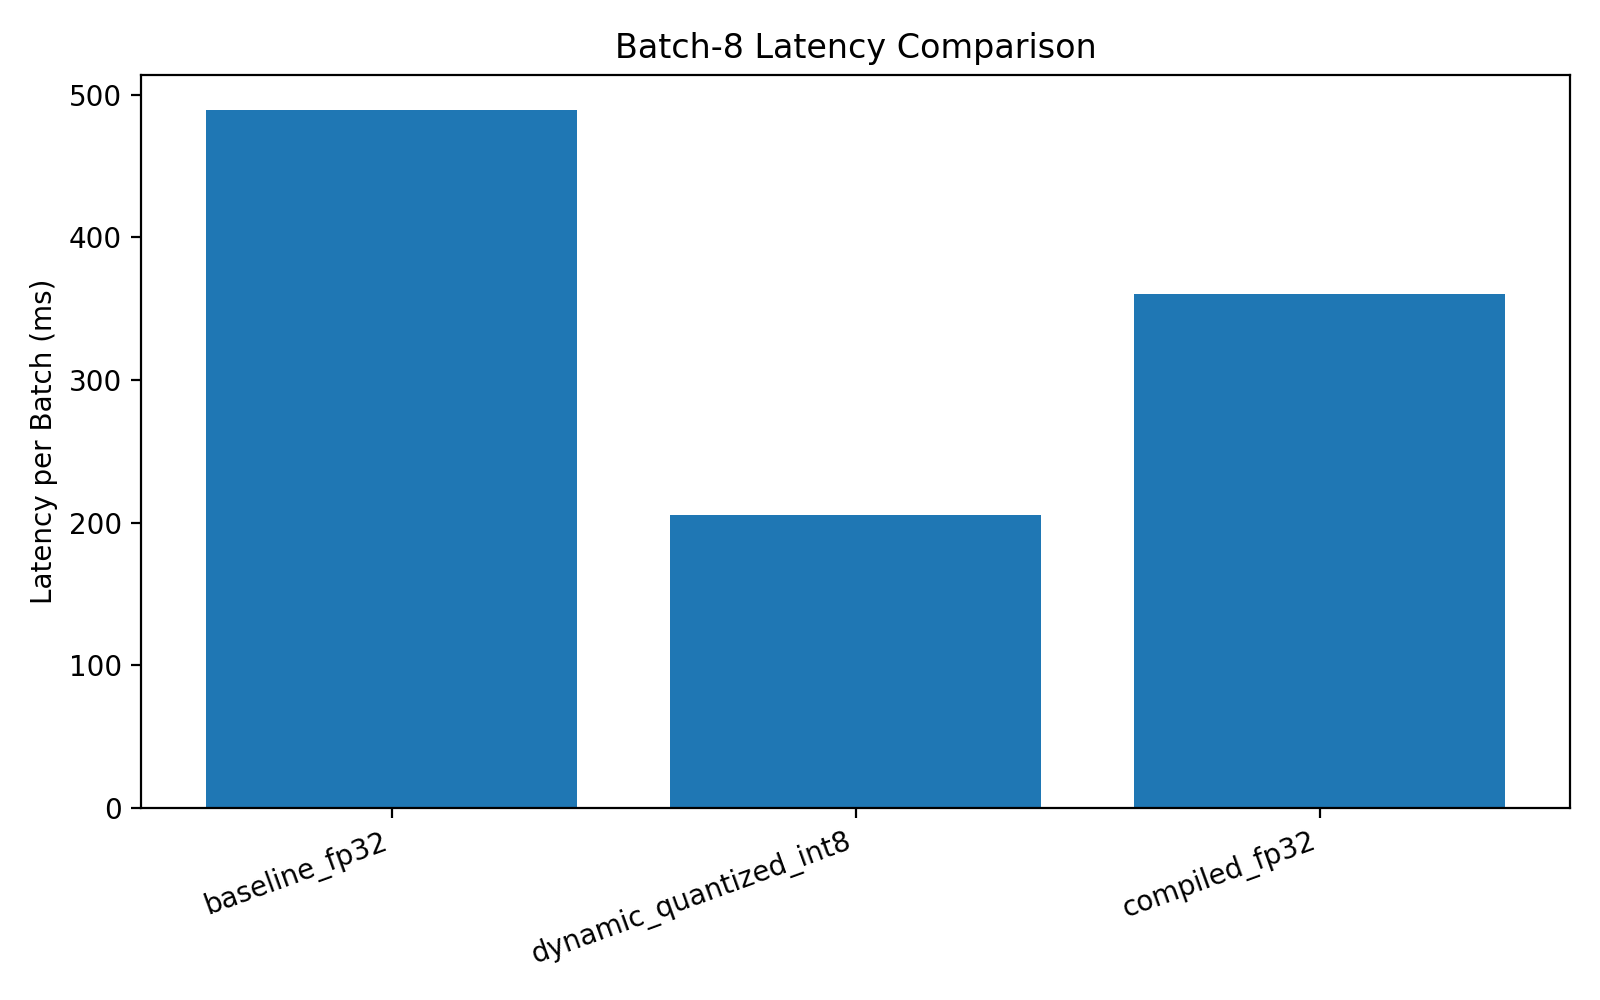
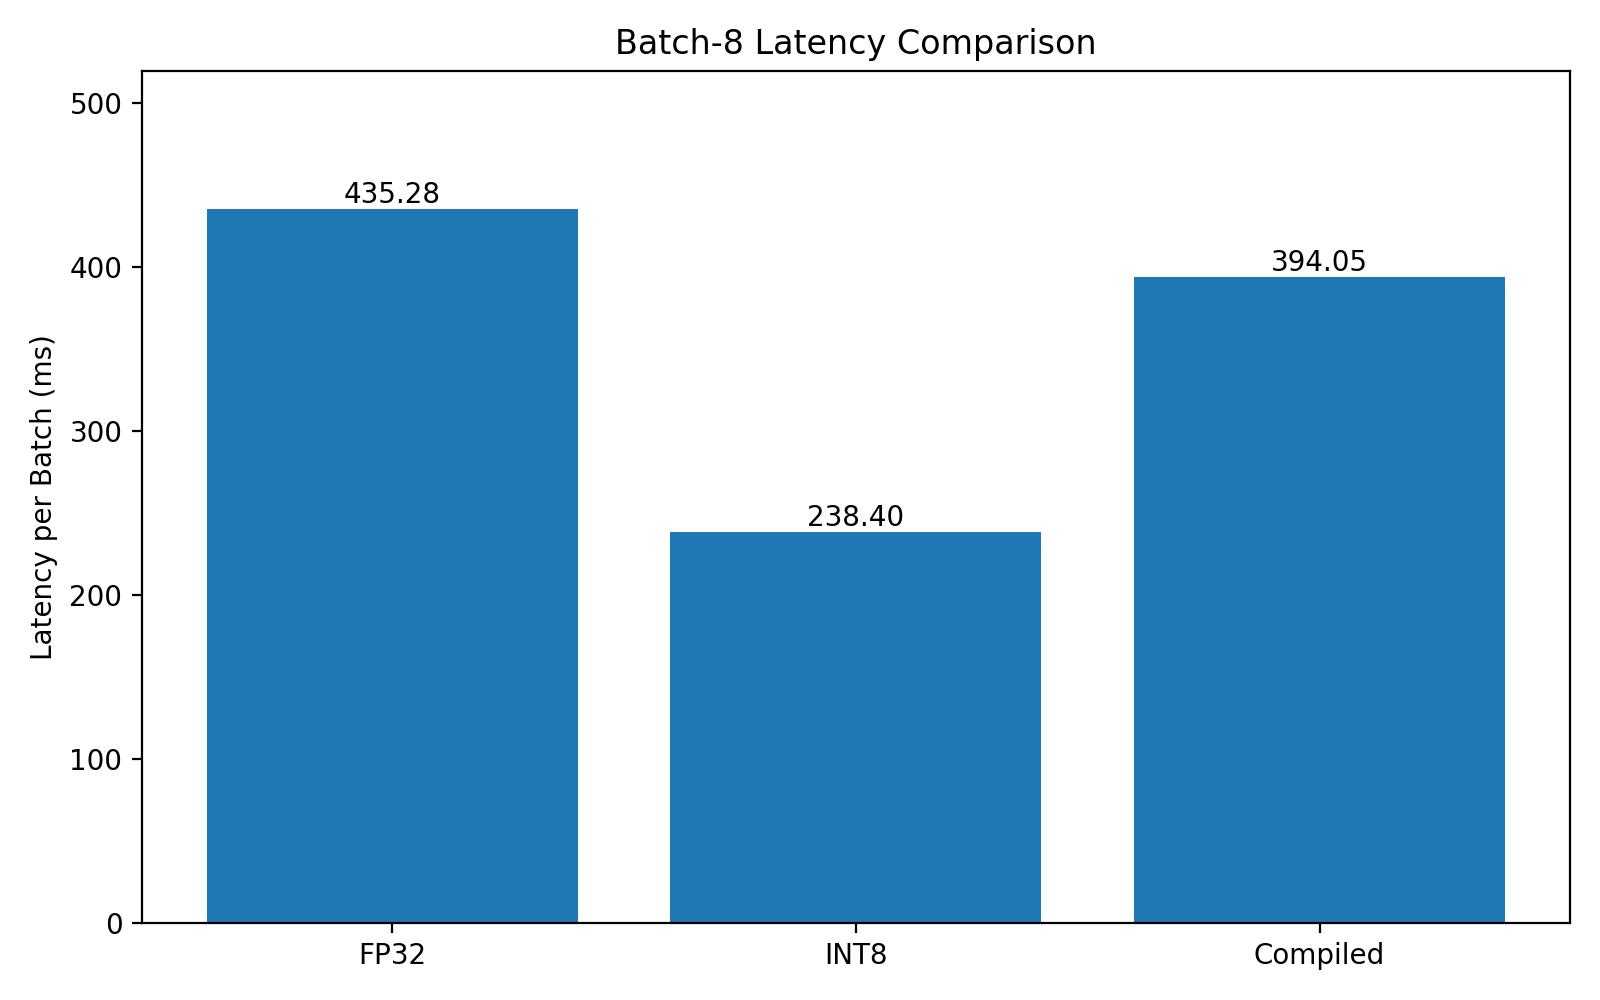
Regenerate final presentation figures with full SST-2 results

diff --git a/FinalProject/src/make_final_presentation_figures.py b/FinalProject/src/make_final_presentation_figures.py
@@ -1,0 +1,60 @@
+import os
+import matplotlib.pyplot as plt
+
+out_dir = "figures"
+os.makedirs(out_dir, exist_ok=True)
+
+labels = ["FP32", "INT8", "Compiled"]
+
+latency = [435.28, 238.40, 394.05]
+throughput = [18.38, 33.56, 20.30]
+model_size = [255.45, 132.29, 255.45]
+correct = [789, 782, 789]
+
+def bar_chart(values, title, ylabel, filename, ylim=None):
+    plt.figure(figsize=(8, 5))
+    plt.bar(labels, values)
+    plt.title(title)
+    plt.ylabel(ylabel)
+    if ylim is not None:
+        plt.ylim(*ylim)
+    for i in range(len(values)):
+        text = f"{values[i]:.2f}" if isinstance(values[i], float) else str(values[i])
+        plt.text(i, values[i], text, ha="center", va="bottom")
+    plt.tight_layout()
+    plt.savefig(os.path.join(out_dir, filename), dpi=200)
+    plt.close()
+
+bar_chart(
+    latency,
+    "Batch-8 Latency Comparison",
+    "Latency per Batch (ms)",
+    "presentation_batch8_latency.png",
+    ylim=(0, 520)
+)
+
+bar_chart(
+    throughput,
+    "Batch-8 Throughput Comparison",
+    "Throughput (samples/sec)",
+    "presentation_batch8_throughput.png",
+    ylim=(0, 40)
+)
+
+bar_chart(
+    model_size,
+    "Model Size Comparison",
+    "Model Size (MB)",
+    "presentation_model_size.png",
+    ylim=(0, 280)
+)
+
+bar_chart(
+    correct,
+    "Batch-8 Accuracy as Correct Predictions",
+    "Correct Predictions out of 872",
+    "presentation_correct_predictions.png",
+    ylim=(0, 872)
+)
+
+print("Regenerated final presentation figures in:", out_dir)
